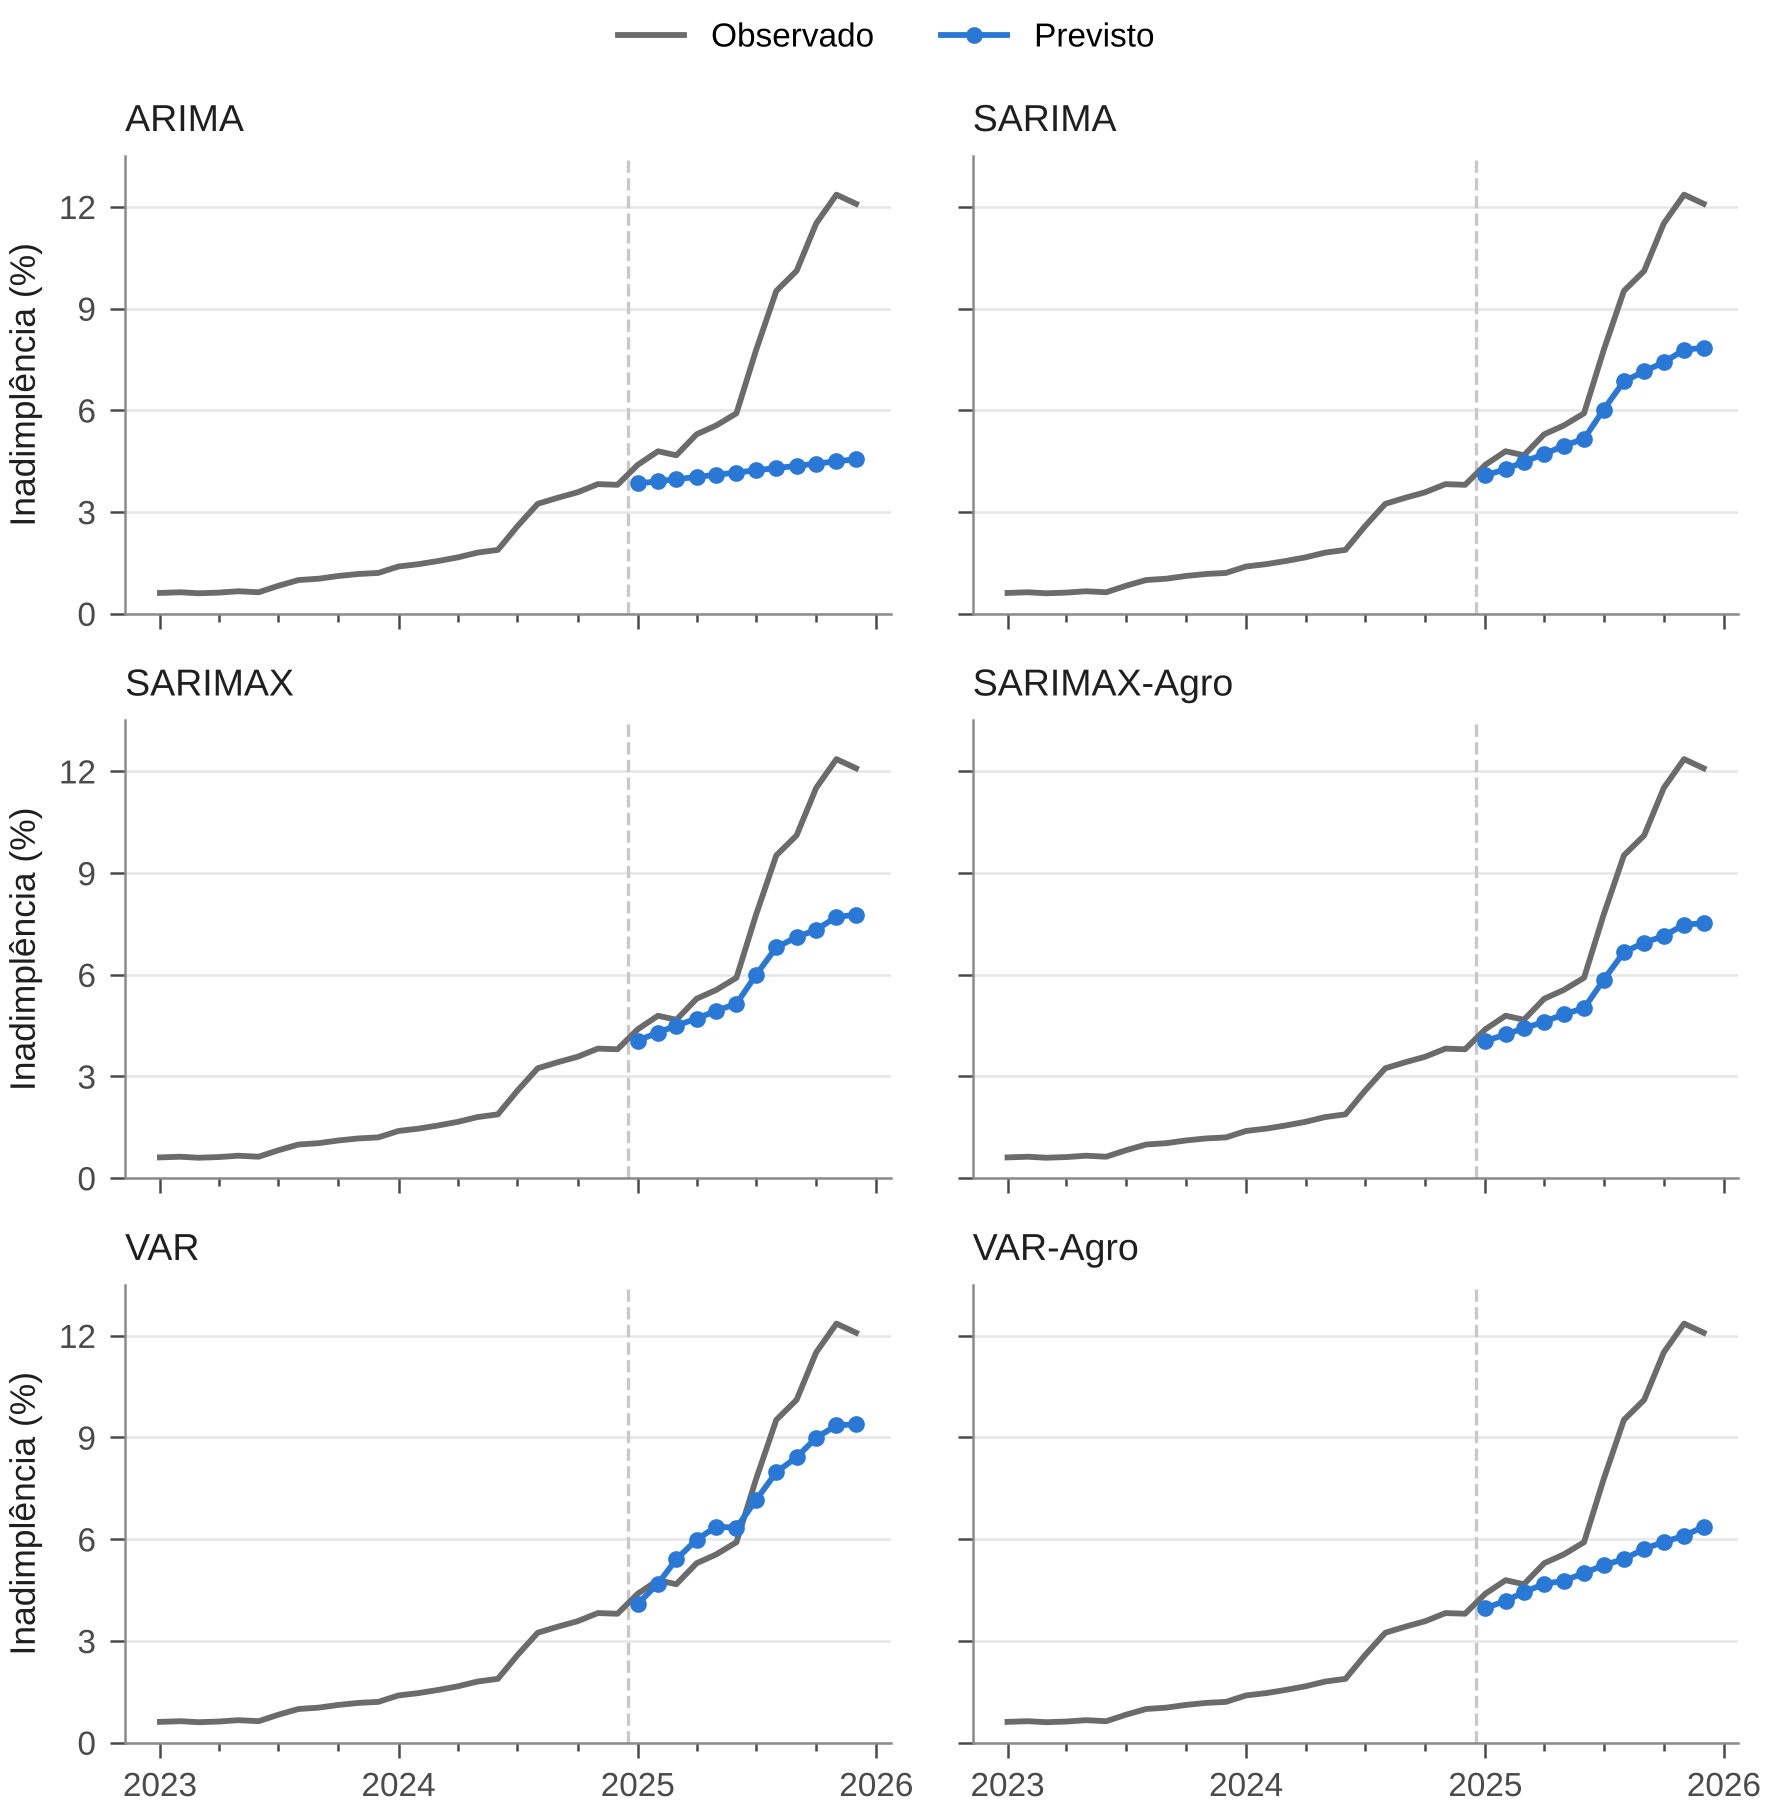
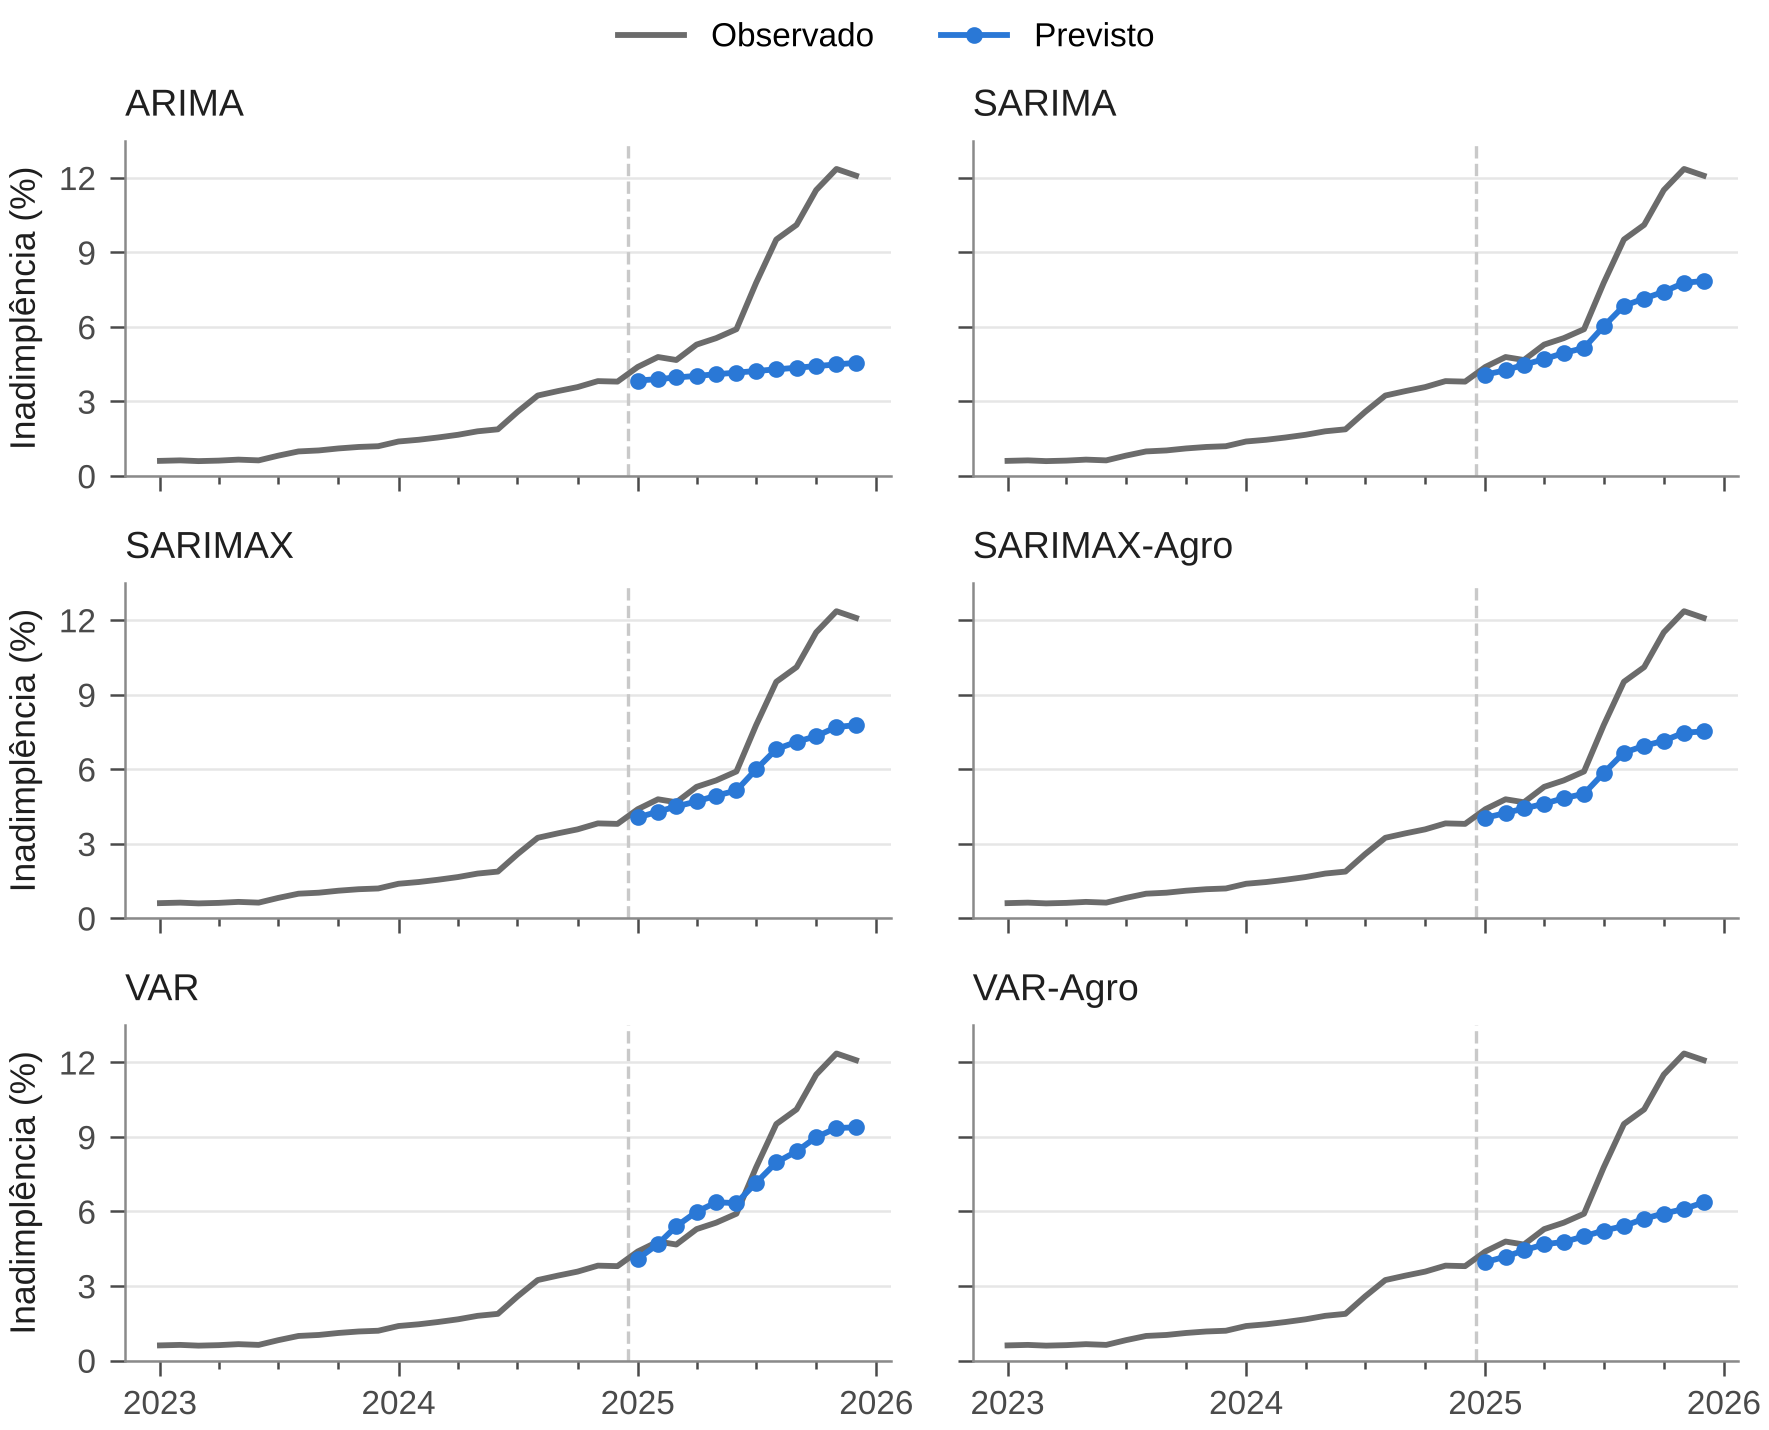
Ajusta altura da Figura 4 e silencia aviso de fonte

diff --git a/07_figuras.py b/07_figuras.py
@@ -5,8 +5,11 @@ Parte do código do TCC "Modelos de séries temporais para previsão de inadimpl
 no crédito rural brasileiro" (MBA USP/ESALQ) — Daniel Augusto Moore da Silva.
 Execute a partir da pasta raiz do repositório: python 07_figuras.py
 """
+import logging
+
 import matplotlib
 matplotlib.use("Agg")
+logging.getLogger("matplotlib.font_manager").setLevel(logging.ERROR)  # silencia aviso quando a Arial não está instalada
 import matplotlib.dates as mdates
 import matplotlib.pyplot as plt
 import numpy as np
@@ -94,7 +97,7 @@ fig.tight_layout(w_pad=1.5)
 salvar(fig, "fig3_diferencas.png")
 
 # Figura 4 - previsões de 2025 (seis painéis)
-fig, axs = plt.subplots(3, 2, figsize=(LARGURA, 15.5 * CM), sharex=True, sharey=True)
+fig, axs = plt.subplots(3, 2, figsize=(LARGURA, 12.3 * CM), sharex=True, sharey=True)
 hist = y.loc["2023-01-01":]
 for a, m in zip(axs.flat, ["ARIMA", "SARIMA", "SARIMAX", "SARIMAX-Agro", "VAR", "VAR-Agro"]):
     a.axvline(idx_2025[0] - pd.Timedelta(days=15), color=CINZA_CLARO, lw=0.8, ls="--")
